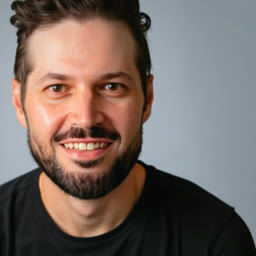
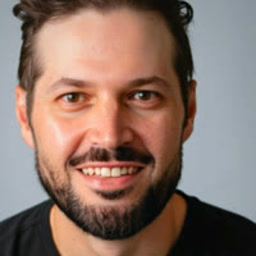
about: re-center off-center board photos (Niv, Isak, Jeremiah)
Photos are 256x256 square in a square circle, so object-position shift
classes were no-ops. Re-cropped the three off-center headshots to center
the face and removed the dead shift-left/shift-right classes.

diff --git a/about/index.html b/about/index.html
@@ -340,7 +340,7 @@
       </article>
 
       <article class="card reveal">
-        <img class="avatar shift-right" src="/assets/board/niv-caviar.jpg" alt="Niv Caviar" onerror="this.src='https://ui-avatars.com/api/?name=Niv+Caviar&size=256&background=161b28&color=cbd5f5&bold=true'">
+        <img class="avatar" src="/assets/board/niv-caviar.jpg" alt="Niv Caviar" onerror="this.src='https://ui-avatars.com/api/?name=Niv+Caviar&size=256&background=161b28&color=cbd5f5&bold=true'">
         <h3>Niv Caviar</h3>
         <div class="role">Board Member</div>
         <p class="bio">Life sciences CEO, CFO &amp; CBO across biopharma, biotech, medtech and health services. CEO, ProPedix. Former CEO, Suneva Medical. Former VP of Marketing, Allergan. Harvard MBA.</p>
@@ -348,7 +348,7 @@
       </article>
 
       <article class="card reveal">
-        <img class="avatar shift-right" src="/assets/board/isak-bosman.jpg" alt="Isak Bosman" onerror="this.src='https://ui-avatars.com/api/?name=Isak+Bosman&size=256&background=161b28&color=cbd5f5&bold=true'">
+        <img class="avatar" src="/assets/board/isak-bosman.jpg" alt="Isak Bosman" onerror="this.src='https://ui-avatars.com/api/?name=Isak+Bosman&size=256&background=161b28&color=cbd5f5&bold=true'">
         <h3>Isak Bosman</h3>
         <div class="role">Board Member</div>
         <p class="bio">Co-founder &amp; CTO, Indago Solutions. Chief AI Scientist, SensorOps. Former lecturer in AI and neural networks, UC Irvine.</p>
@@ -372,7 +372,7 @@
       </article>
 
       <article class="card reveal">
-        <img class="avatar shift-left" src="/assets/board/jeremiah-jenkins.jpg" alt="Jeremiah Jenkins" onerror="this.src='https://ui-avatars.com/api/?name=Jeremiah+Jenkins&size=256&background=161b28&color=cbd5f5&bold=true'">
+        <img class="avatar" src="/assets/board/jeremiah-jenkins.jpg" alt="Jeremiah Jenkins" onerror="this.src='https://ui-avatars.com/api/?name=Jeremiah+Jenkins&size=256&background=161b28&color=cbd5f5&bold=true'">
         <h3>Jeremiah Jenkins</h3>
         <div class="role">Director of QA</div>
         <p class="bio">AI Trainer, DataAnnotation.tech.</p>
